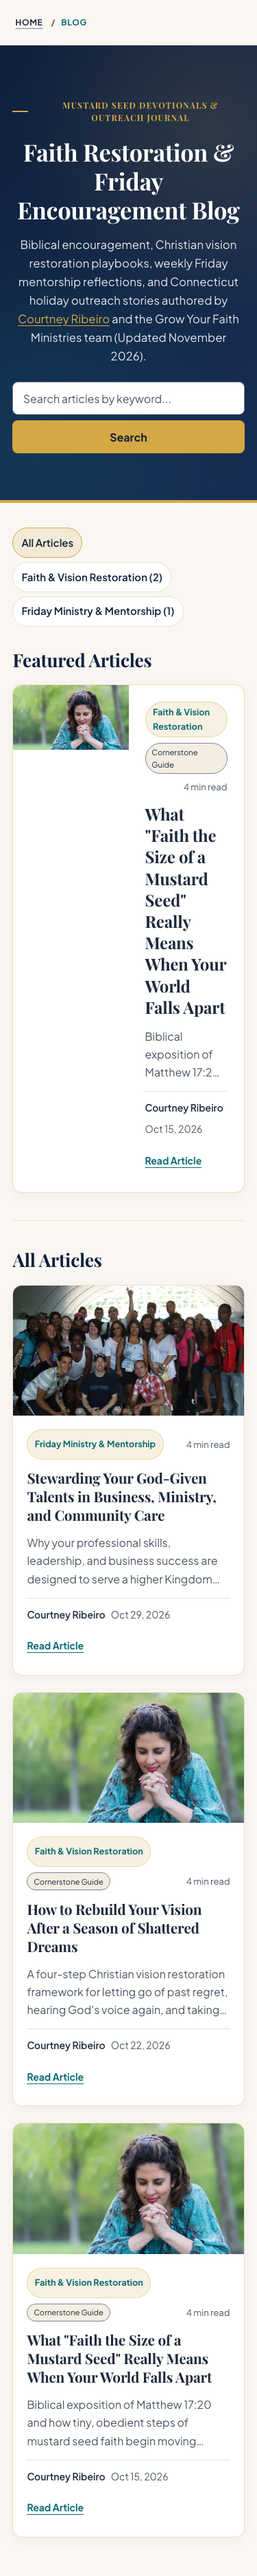
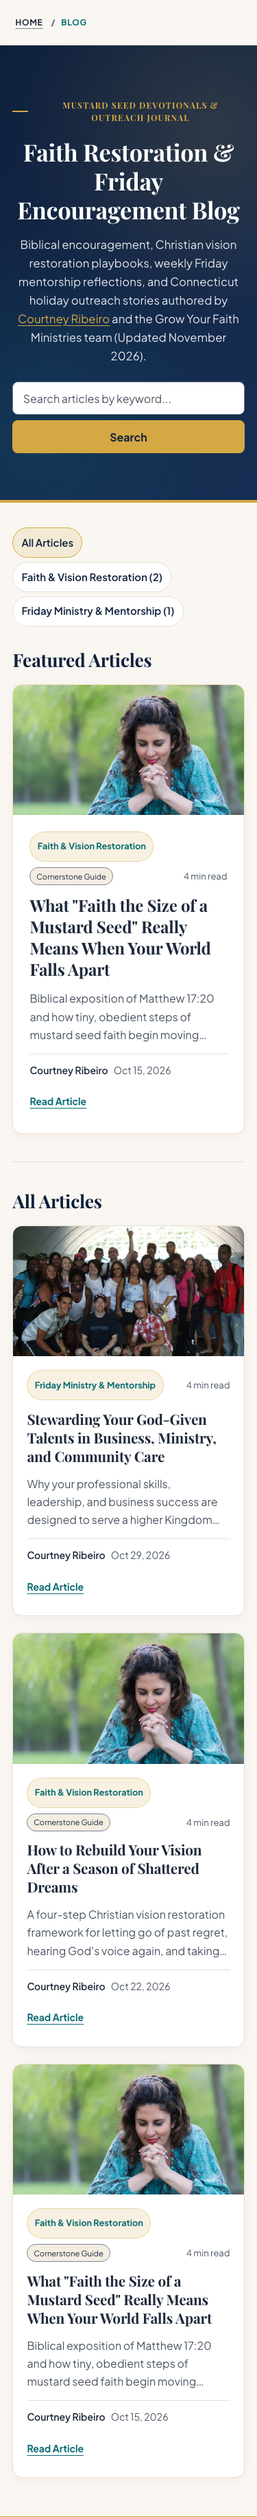
fix: preserve mobile feature layout and code-block contrast

diff --git a/src/lib/styles/inner-page.css b/src/lib/styles/inner-page.css
@@ -417,12 +417,16 @@
 
 /* Syntax-highlighted blocks intentionally retain their supplied theme.
    Non-highlighted code follows the light reading surface. */
+.inner-page .prose-base pre.shiki code {
+	color: inherit;
+}
+
 .inner-page .prose-base pre:not(.shiki) {
 	color: var(--color-text);
 }
 
 @media (max-width: 760px) {
-	.inner-page .featured-grid > .blog-post-card:only-child {
+	.inner-page .featured-grid > .blog-post-card:only-child:has(.card-media-link) {
 		grid-template-columns: minmax(0, 1fr);
 	}
 

diff --git a/docs/blog-ui-audit-2026-11-03/README.md b/docs/blog-ui-audit-2026-11-03/README.md
@@ -27,7 +27,7 @@ Category navigation and article links have 44 px minimum target heights. Search 
 
 [Desktop after](desktop.png) · [Mobile after](mobile.png) · [Before](before.png) · [Browser measurements](browser-evidence.json).
 
-The browser measurements precede the final small control-font and enlarged-text wrapping refinements. Normal-width checks were repeated after the control-font change; the enlarged-text check was repeated after the final wrapping correction. Screenshots show the implemented layout; the last metadata-wrapping adjustment only affects enlarged text.
+The initial browser measurements precede the final control-font, wrapping, and review corrections. `regression-evidence.json` records the final assertions: featured cards stack at 320/375/760 px and use two columns at 761/1440 px; enlarged-text blog content does not overflow; plain-text Shiki output retains 11.50:1 contrast and unhighlighted fallback code has 12.55:1 contrast. Screenshots were refreshed after these corrections.
 
 Guidance checked on November 3, 2026: [W3C text contrast](https://www.w3.org/WAI/WCAG22/Understanding/contrast-minimum.html) and [W3C reflow](https://www.w3.org/WAI/WCAG22/Understanding/reflow.html). Branding choices come from the existing site's design tokens and the user's requested visual consistency. There is no claim of measured conversion uplift.
 
